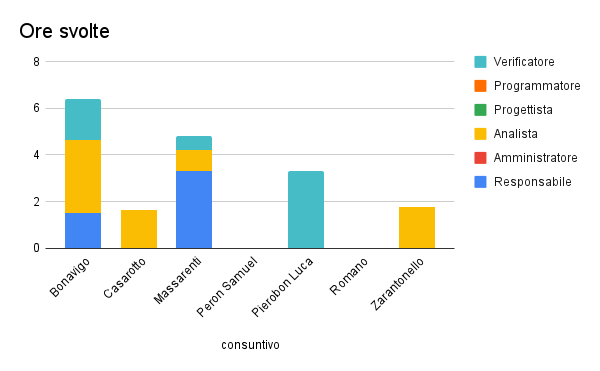
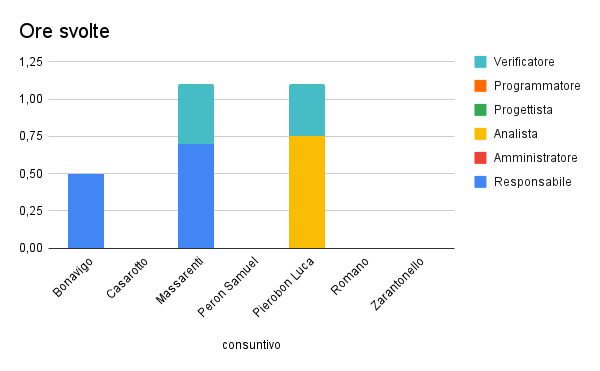
Verbalizzato sprint 9 SPR_20230226 #47

diff --git a/sprint/SPR_20230226/contenuti/consuntivazione.tex b/sprint/SPR_20230226/contenuti/consuntivazione.tex
@@ -16,6 +16,8 @@
         \hline
         riviste e riorganizzate tutte le uc & completato & Analista \\
         rilasciata versione 0.0.4 dell'analisi dei requisiti & completato & Responsabile \\
+        finalizzata documentazione del \textbf{PoC} & completato & Analista \\
+        normata codifica dei requisiti & parziale & Amministratore \\
     \end{xltabular}
     \caption{Lista delle attività svolte durante lo sprint}
 \end{table}
@@ -25,14 +27,14 @@
     \begin{tabularx}{\linewidth}{X|rrrrrrr}
     \rowcolor{gray!30}& Re & Amm & An & Pro & Prog & Ver & tot \\
     \hline
-    Bonavigo Michele                        & 1,5 & 0 & 3,15 & 0 & 0 & 1,75  & 6,4 \\
-    \rowcolor{gray!10}Casarotto Mattia      & 0 & 0 & 1,65 & 0 & 0 & 0 & 1,65 \\
-    Massarenti Alessandro                   & 3,3 & 0 & 0,9 & 0 & 0 & 0,6  & 4,8 \\
+    Bonavigo Michele                        & 0,5 & 0 & 0 & 0 & 0 & 0  & 0,5 \\
+    \rowcolor{gray!10}Casarotto Mattia      & 0 & 0 & 0 & 0 & 0 & 0 & 0 \\
+    Massarenti Alessandro                   & 0,7 & 0 & 0 & 0 & 0 & 0,4  & 1,1 \\
     \rowcolor{gray!10}Peron Samuel          & 0 & 0 & 0 & 0 & 0 & 0 & 0 \\
-    Pierobon Luca                           & 0 & 0 & 0 & 0 & 0 & 3,3 & 3,3 \\
+    Pierobon Luca                           & 0 & 0 & 0,75 & 0 & 0 & 0,35 & 1,1 \\
     \rowcolor{gray!10}Romano Davide         & 0 & 0 & 0 & 0 & 0 & 0 & 0 \\
-    Zarantonello Giorgio                    & 0 & 0 & 1,75 & 0 & 0 & 0 & 1,75 \\
-    \hline                                  & 4,8 & 0 & 7,45 & 0 & 0 & 5,65 & \\
+    Zarantonello Giorgio                    & 0 & 0 & 0 & 0 & 0 & 0 & 0 \\
+    \hline                                  & 1,2 & 0 & 0,75 & 0 & 0 & 0,75 & \\
     \end{tabularx}
     \caption{\label{ruoli-persone}Spartizione dei ruoli e ore svolte durante lo sprint}
 \end{table}
@@ -46,34 +48,34 @@
     \rowcolor{gray!30}& Ore & Costo \\
     \hline
     
-    Responsabile & 4,8 & € 144,00 \\
+    Responsabile & 1,2 & € 36,00 \\
     \rowcolor{gray!10}Amministratore & 0 & € 0,00 \\
-    Analista & 7,45 & € 186,25 \\
+    Analista & 0,75 & € 18,75 \\
     \rowcolor{gray!10}Progettista & 0 & € 0,00 \\
     Programmatore & 0 & € 0,00 \\
-    \rowcolor{gray!10}Verificatore & 5,65 &€ 84,75 \\
-    totale & 17,9 & € 415,00 \\
+    \rowcolor{gray!10}Verificatore & 0,75 &€ 11,25 \\
+    totale & 2,7 & € 66,00 \\
     \end{tabularx}
     \caption{\label{costi-ruolo}Spartizione dei ruoli e ore svolte durante lo sprint}
 \end{table}
 
-Avendo quindi consumato €415,00\footnote{Si veda tabella \ref{costi-ruolo}} del budget durante questo sprint, rimangono ancora a disposizione € 11372,50 per gli sprint seguenti.
+Avendo quindi consumato €66,00\footnote{Si veda tabella \ref{costi-ruolo}} del budget durante questo sprint, rimangono ancora a disposizione € 11306,50 per gli sprint seguenti.
 
-\subsection{Trend e riflessioni}
+\subsection{Trend e riflessioni}\label{subsec:trend}
 
 \begin{figure}[H]
     \includegraphics[width=\linewidth]{img/andamento.png}
     \caption{Andamento ore utilizzate nei vari sprint}\label{img:andamento}
 \end{figure}
 
-Dopo aver notato nello sprint precedente come il mettere in coda le attività di progetto non sia costruttivo, il gruppo ha lavorato per aumentare il ritmo.
+Durante questo sprint, purtroppo, l'attività degli esami si è intensificata per tutti i membri del gruppo. Nonostante i buoni propositi prefissati, le attività di progetto sono drasticamente rallentate.
 
-È desiderio del gruppo continuare a lavorare su questo aspetto.
+Prevediamo nel prossimo sprint di recuperare il tempo perduto.
 
 \subsection{Difficoltà e problemi di sprint}
 
 Non ci sono state grandi difficoltà esterne durante questo sprint. Purtroppo però, come negli sprint appena precedenti, non siamo ancora riusciti a definire con il proponente il supporto hardware per i lampioni a cui dovremo fare fede.
 
-Nonostante il gruppo abbia lavorato per aumentare il ritmo, questa tendenza non è stata seguita da tutti i membri. Si può notare in figura \ref{img:andamento} come alcuni membri non abbiano migliorato il loro trend non partecipativo iniziato nello sprint 4.
+Internamente, come difficoltà, si rimanda alla riflessione posta nella sezione \ref{subsec:trend}.
 
 Queste verranno discusse in sede di preparazione del prossimo sprint.
